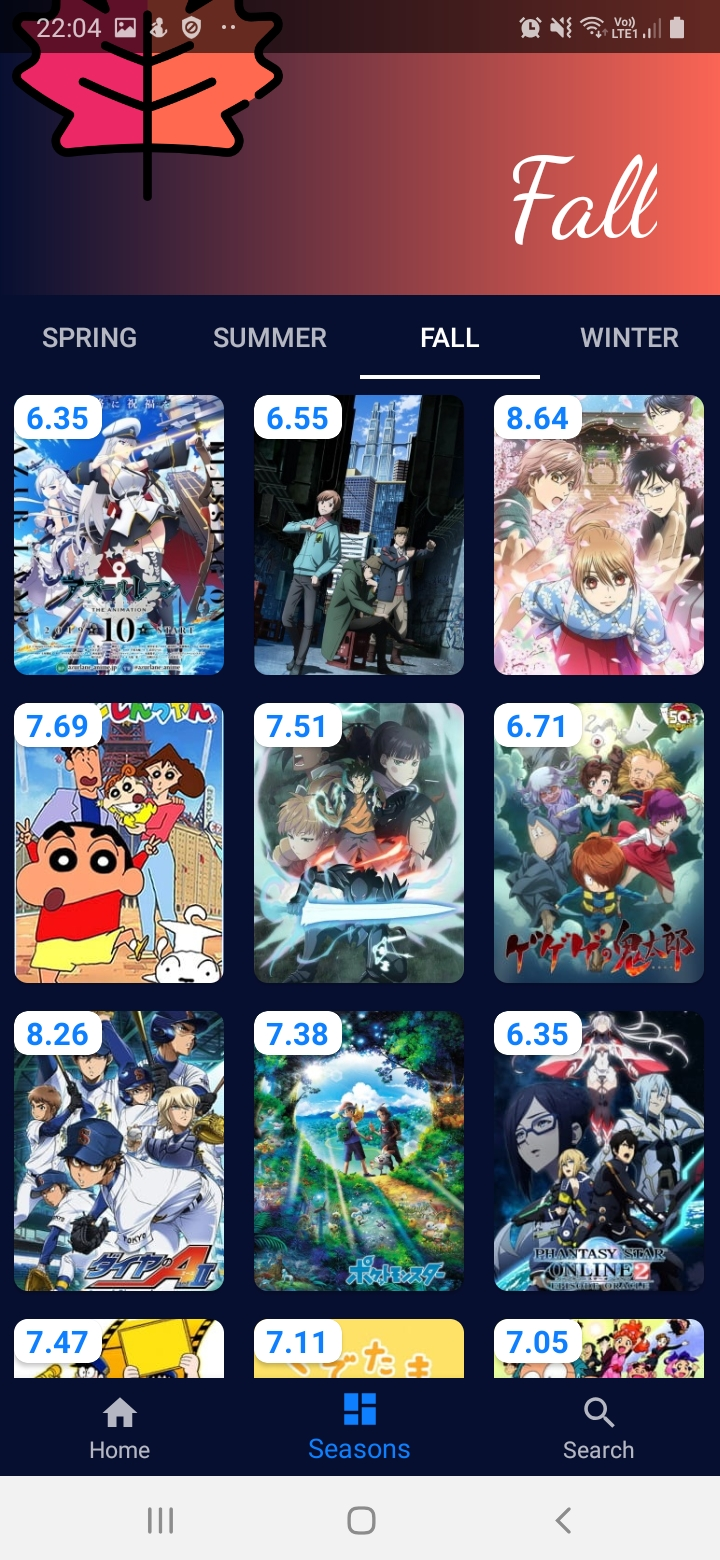
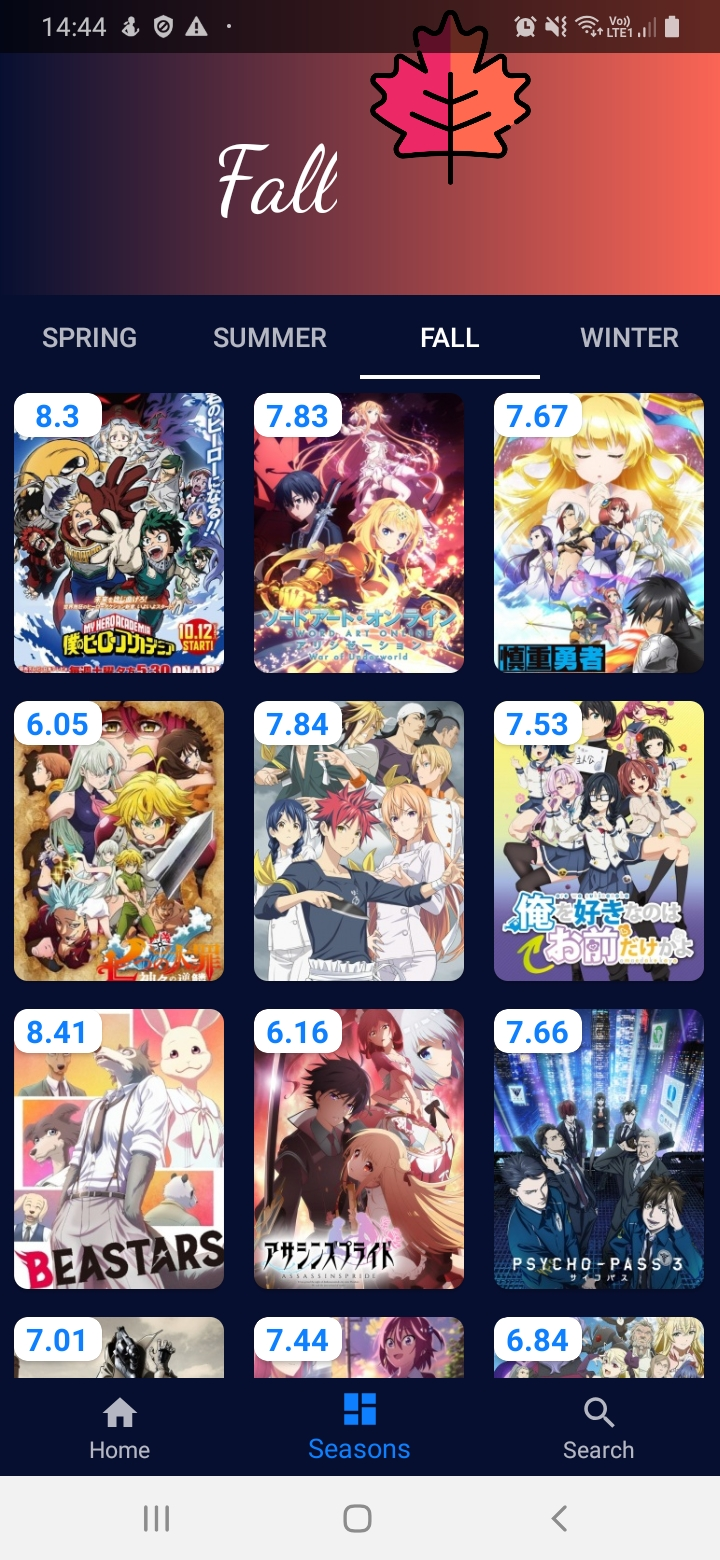
add gif to readme

diff --git a/README.md b/README.md
@@ -14,28 +14,23 @@
 </p>
 
 <p align="center">
-  <img src="img/spring.jpg" width="270" alt="Spring">
-  <img src="img/summer.jpg" width="270" alt="Summer">
+  <img src="img/fall.jpg" width="270" alt="Fall">
+  <img src="img/gif.gif" width="270" alt="Gif">
 </p>
 
-<p align="center">
-  <img src="img/fall.jpg" width="270" alt="Fall">
-  <img src="img/winter.jpg" width="270" alt="Winter">
-</p>
 
 - [Kotlin](https://kotlinlang.org/)
 - [LiveData](https://developer.android.com/topic/libraries/architecture/livedata)
 - [Navigation](https://developer.android.com/topic/libraries/architecture/navigation)
 - [ViewModel](https://developer.android.com/topic/libraries/architecture/viewmodel)
 - [Retrofit](https://square.github.io/retrofit/)
+- [MotionLayout](https://developer.android.com/training/constraint-layout/motionlayout)
+- [Databinding](https://developer.android.com/topic/libraries/data-binding)
 
 ## To DO
 
 - Room
-- Coroutines
-- Databinding
 - Koin
-- MotionLayout
 - JUnit
 - Robolectric
 - Espresso
@@ -46,4 +41,4 @@
 
 ## API
 
-- [jikan.moe API] (https://jikan.moe/)
+- [jikan.moe API](https://jikan.moe/)
